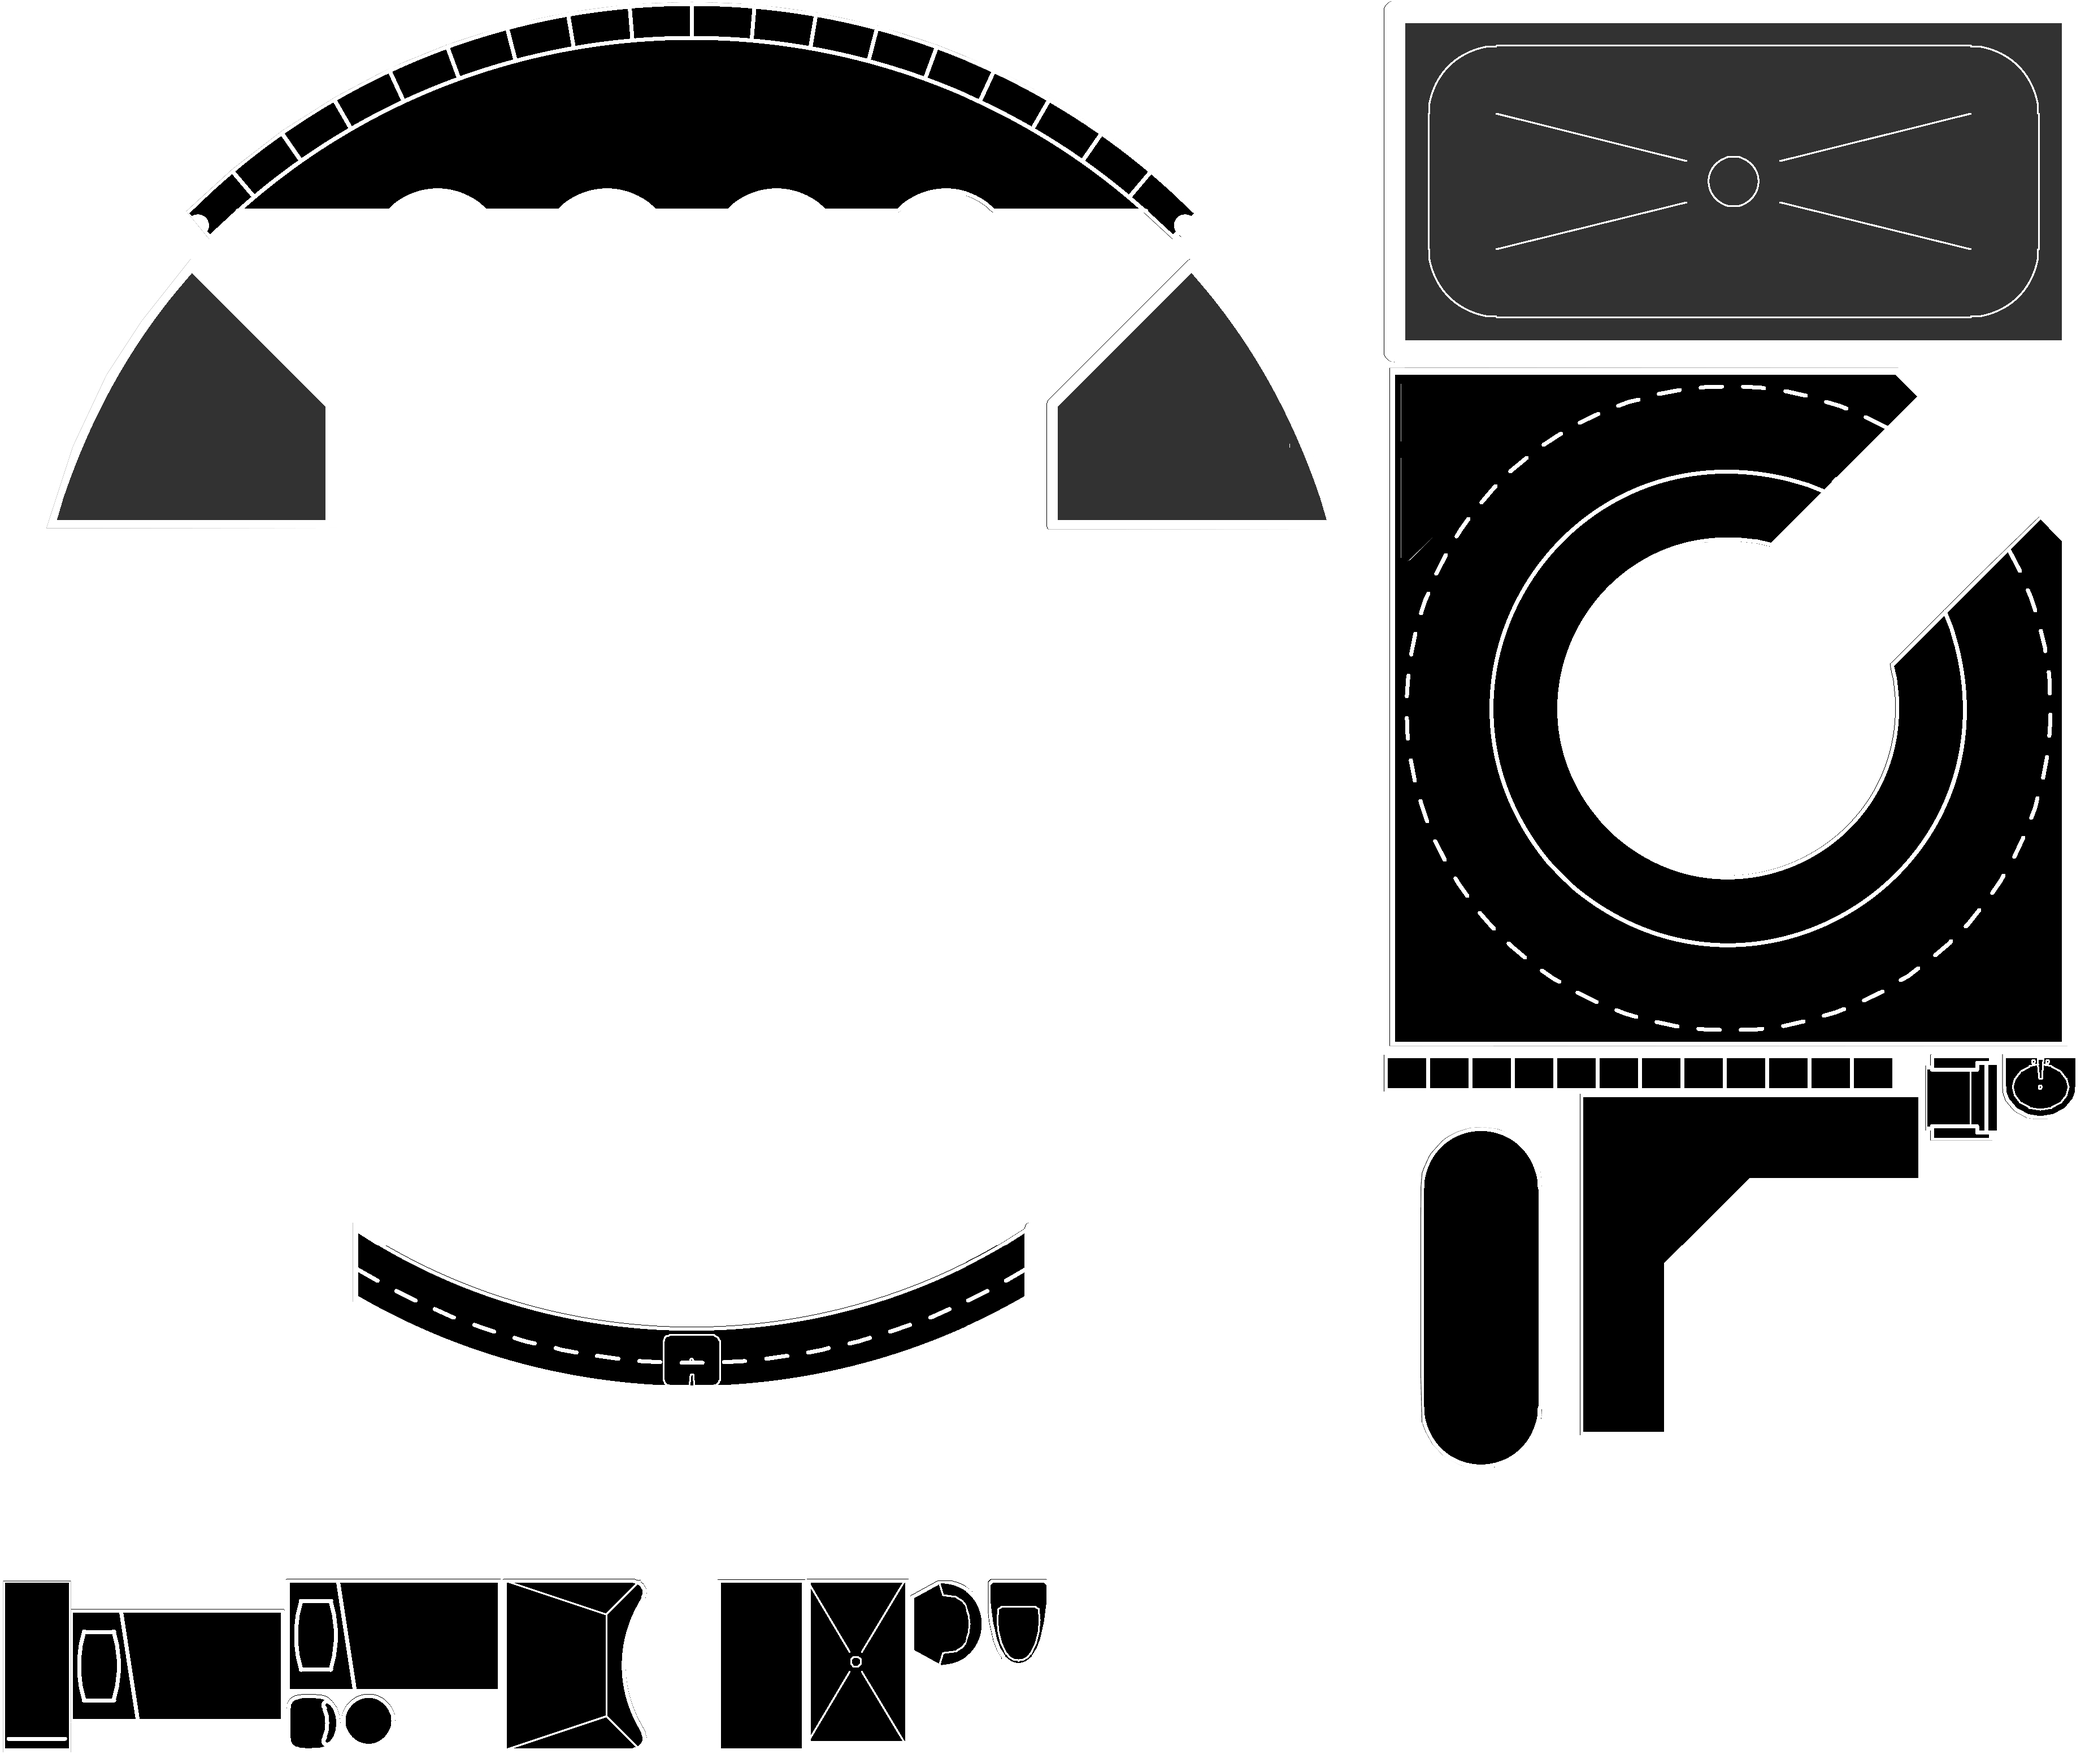
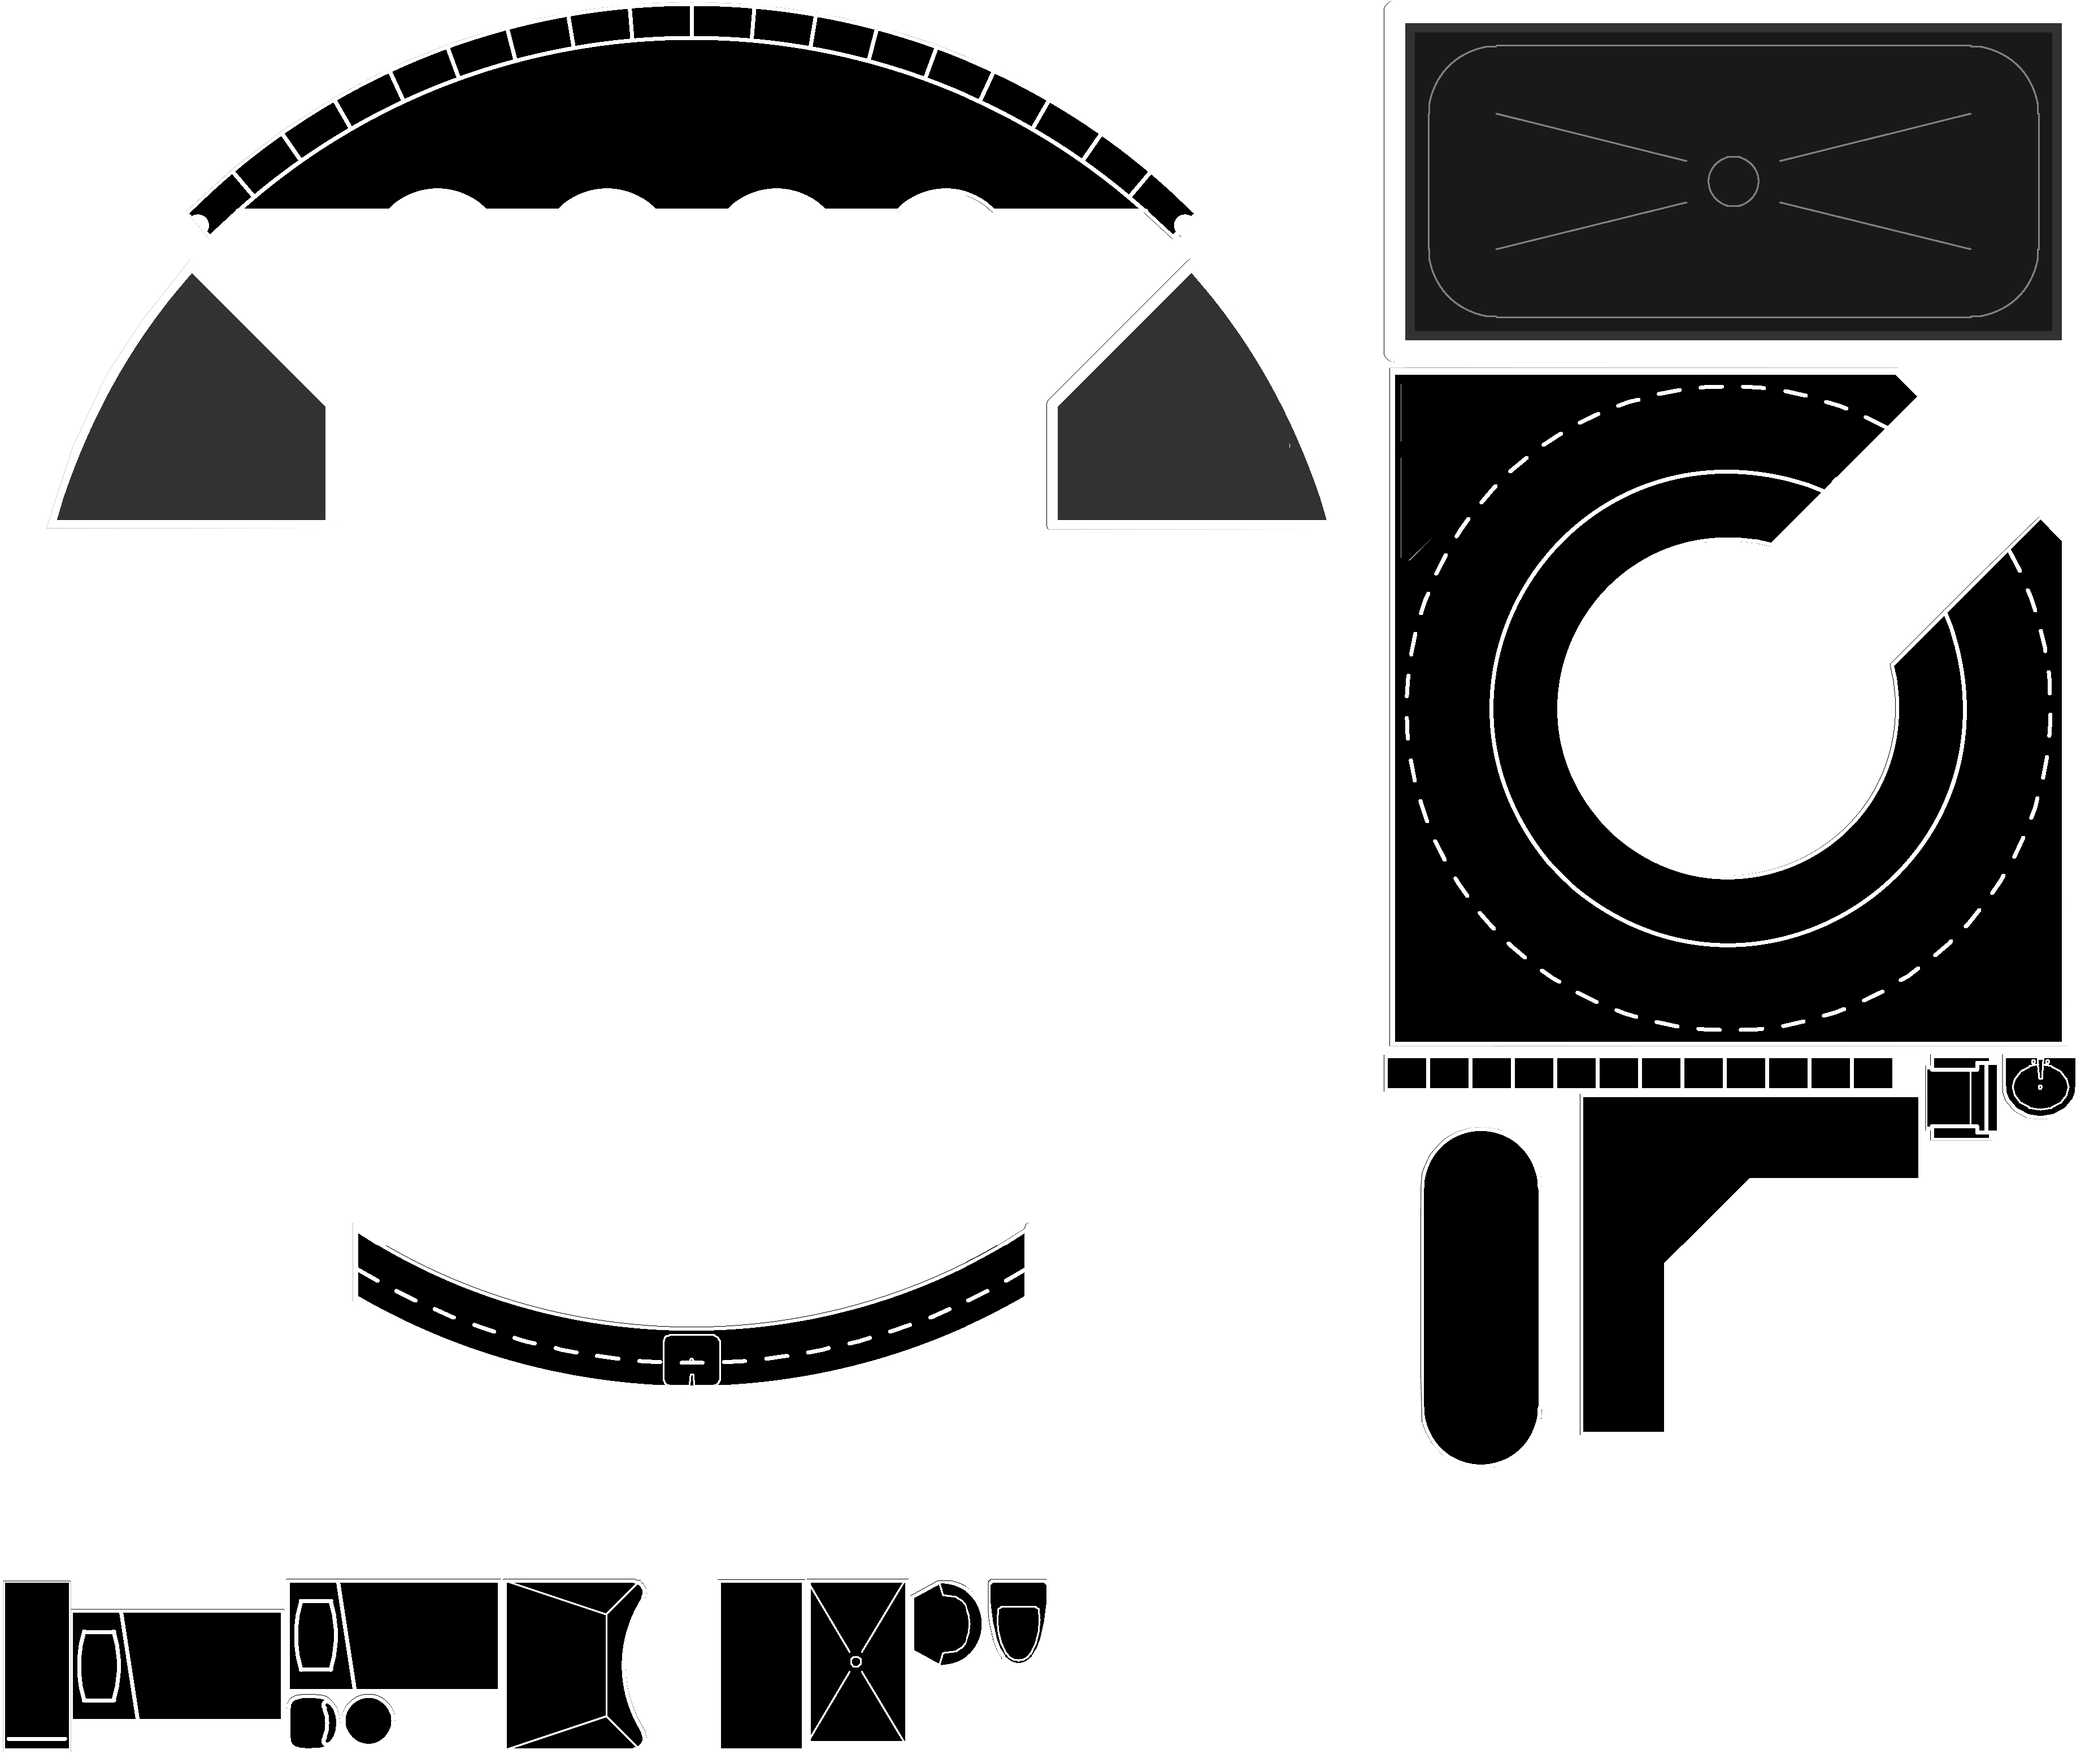
feat: shade obstacle using mask color={color}

Changed region(s): [[0.6545, 0.0, 0.9973, 0.1856]]

diff --git a/scripts/src/bins/gen-starship-sheets.ts b/scripts/src/bins/gen-starship-sheets.ts
@@ -115,7 +115,7 @@ const starshipSymbolDir = path.resolve("packages/app/public/starship-symbol");
 const symbolsSheetDirectory = path.resolve("packages/app/public/sheet");
 mkdirSync(symbolsSheetDirectory, { recursive: true });
 
-/** mapping from "symbol key" to array of polygons to erase, in SVG viewBox coordinates */
+/** mapping from "symbol key" to array of polygons to erase/color, in SVG viewBox coordinates */
 const masksBySymbol = collectMasks(path.resolve(starshipSymbolDir, "mask"));
 
 const baseSymbolsSheetPath = path.resolve(symbolsSheetDirectory, "symbols");
@@ -151,8 +151,9 @@ for (const [sheetId, bin] of bins.entries()) {
       ct.restore();
     }
 
-    // erase "mask remove" regions
     const masks = masksBySymbol[symKey];
+
+    // erase "mask remove" regions
     const offsetX = rect.x - sym.bounds.x * scale;
     const offsetY = rect.y - sym.bounds.y * scale;
 

diff --git a/scripts/src/service/svg-masks.ts b/scripts/src/service/svg-masks.ts
@@ -7,7 +7,9 @@ import { Parser } from "htmlparser2";
 type MaskFilePolys = { remove: Geom.Poly[]; color: { [color: string]: Geom.Poly[] } };
 
 /**
- * Collect all "mask remove" and "mask color={color}" polygons from SVGs in `maskDir`.
+ * Collect all polygons with these titles from SVGs in `maskDir`:
+ * - "mask remove"
+ * - "mask color={color}"
  *
  * Each SVG is named `{symbolKey}.svg` and may contain `<path>` or `<rect>`
  * elements with a `<title>mask remove</title>` or `<title>mask color={color}</title>` child.
